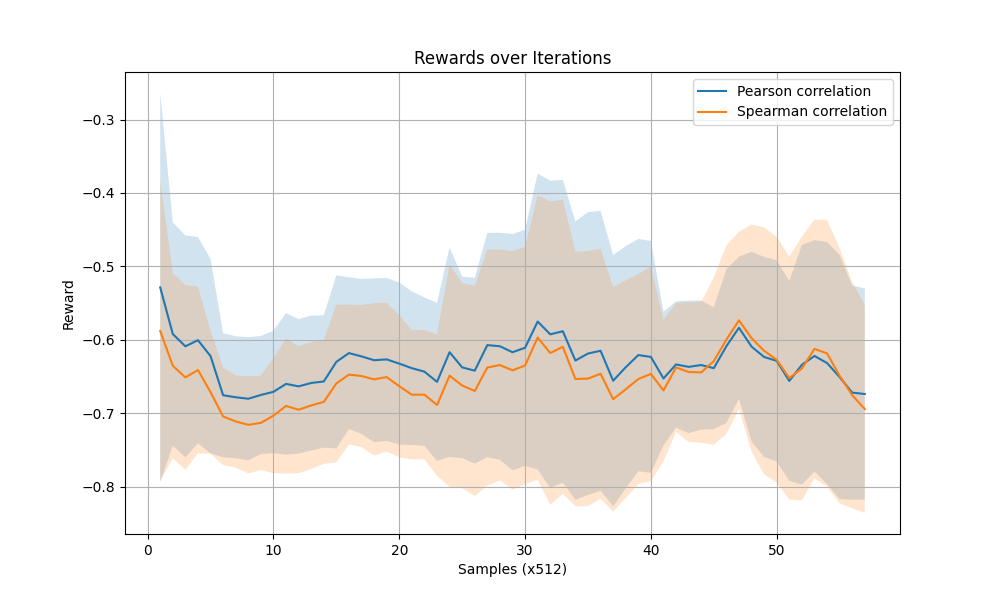
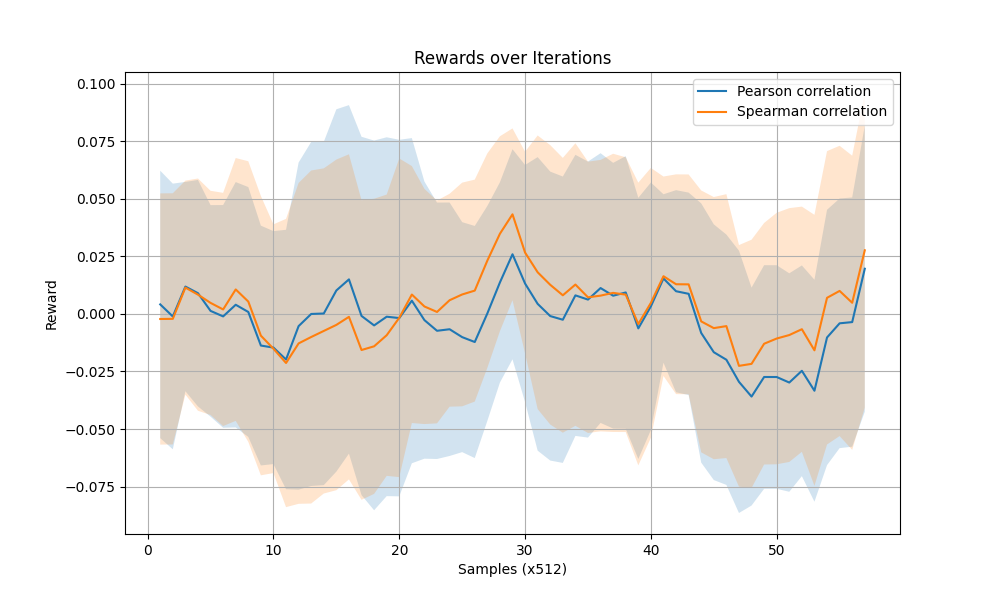
update

diff --git a/plots/plot_correlation.py b/plots/plot_correlation.py
@@ -7,7 +7,7 @@ env = "Ant"
 
 start_iteration = 1
 
-file = "../base_job_output/"+env+"/ppo_empty_space_ls_6_out.txt"
+file = "../base_job_output/"+env+"/ppo_empty_space_ls_9_out.txt"
 
 perason_reward_values = []
 spearman_reward_values = []
